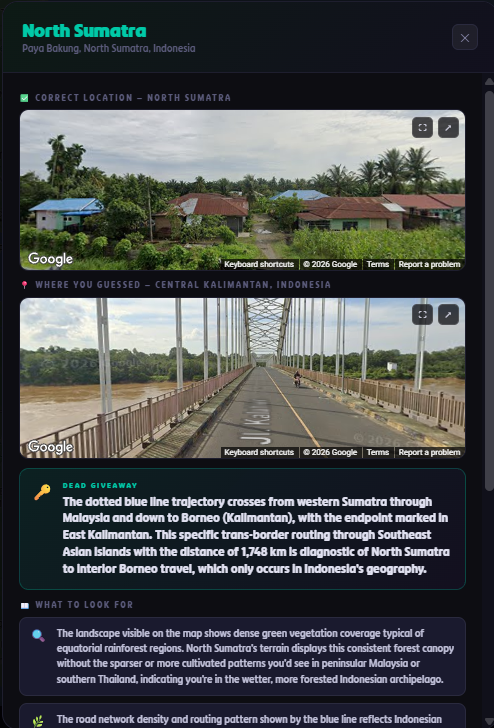
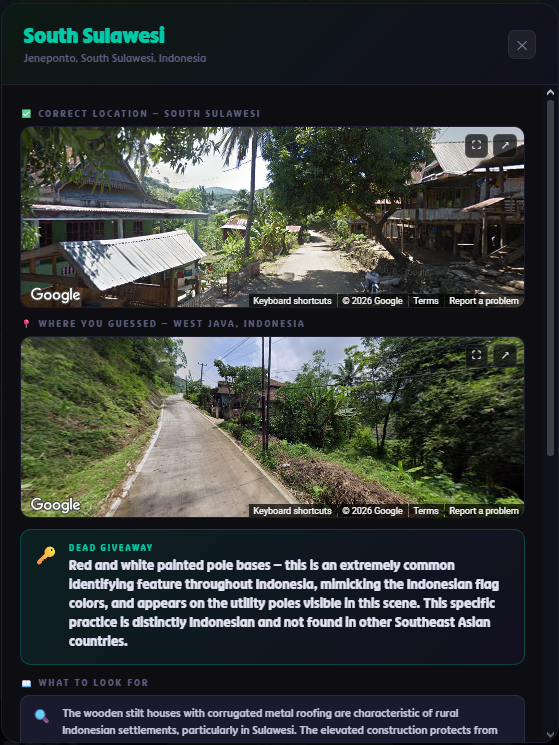
Add files via upload

diff --git a/index.html b/index.html
@@ -1000,7 +1000,7 @@ if (sessionStorage.getItem('kbl_unlocked') === '1') {
           <tr style="border-bottom:1px solid #1e1e35;">
             <td style="padding:12px 16px;">F7 Scene Captures</td>
             <td style="text-align:center;padding:12px 16px;color:var(--teal);font-weight:700;">Unlimited</td>
-            <td style="text-align:center;padding:12px 16px;color:var(--teal);font-weight:700;">Unlimited</td>
+            <td style="text-align:center;padding:12px 16px;color:var(--gold);font-weight:700;">Unlimited</td>
           </tr>
           <tr style="border-bottom:1px solid #1e1e35;background:rgba(255,255,255,0.02);">
             <td style="padding:12px 16px;">Training Guides</td>
@@ -1186,10 +1186,12 @@ if (sessionStorage.getItem('kbl_unlocked') === '1') {
 </div>
 <div id="dashboard" style="min-height:80vh;">
   <div style="padding:40px;max-width:900px;margin:0 auto;position:relative;z-index:1;">
-    <div id="dash-seasonal-banner" style="display:none;text-align:center;font-size:12px;font-weight:700;letter-spacing:1px;padding:8px 16px;border-radius:8px;margin-bottom:16px;"></div>
     <div class="dash-header">
       <div>
-        <div class="dash-welcome">Welcome back, <span id="dash-username">Player</span> 👋</div>
+        <div class="dash-welcome" style="display:flex;align-items:center;gap:10px;flex-wrap:wrap;">
+          <span>Welcome back, <span id="dash-username">Player</span> 👋</span>
+          <span id="dash-level-badge" style="font-size:12px;font-weight:700;padding:3px 10px;border-radius:20px;background:rgba(0,201,167,0.15);border:1px solid var(--teal);color:var(--teal);">Lv.1</span>
+        </div>
         <div style="color:var(--muted);font-size:14px;margin-top:4px;" id="dash-email"></div>
       </div>
       <div style="display:flex;align-items:center;gap:12px;">
@@ -1214,13 +1216,10 @@ if (sessionStorage.getItem('kbl_unlocked') === '1') {
       </div>
     </div>
 
-    <!-- GeoX mascot -->
-    <div id="dash-mascot-wrap" style="display:flex;align-items:flex-start;gap:12px;margin-bottom:16px;">
-      <div style="width:38px;height:38px;border-radius:50%;background:linear-gradient(135deg,var(--teal),var(--purple));display:flex;align-items:center;justify-content:center;font-weight:800;font-size:13px;flex-shrink:0;color:#000;">5k</div>
-      <div style="background:var(--card);border:1px solid var(--border);border-radius:14px;border-top-left-radius:2px;padding:12px 16px;font-size:13px;flex:1;">
-        <span style="font-weight:700;color:var(--teal);">GeoX</span>
-        <div id="dash-mascot-message" style="color:var(--text);margin-top:2px;">Loading your stats...</div>
-      </div>
+    <!-- Level rewards roadmap -->
+    <div style="background:var(--card);border:1px solid var(--border);border-radius:14px;padding:20px 24px;margin-bottom:16px;">
+      <div style="font-weight:700;font-size:13px;margin-bottom:14px;">🎖 Rank Rewards</div>
+      <div id="dash-rewards-roadmap" style="display:flex;flex-direction:column;gap:2px;"></div>
     </div>
 
     <div class="dash-cards">
@@ -2305,14 +2304,13 @@ function showDashboard(user, token) {
   loadGuessInsights(token);
   loadDashboardUsage(token);
   loadDashboardExtras(token);
-  applySeasonalBanner();
 }
 
 // ── Level / XP + GeoX mascot + seasonal banner ──────────────────
 function _gaxLevelInfo(xp) {
   // Quadratic curve: level n's cumulative threshold is 50*n^2, so each
   // level takes progressively more XP than the last (RPG-style pacing)
-  // — 50 XP for level 2, 200 cumulative for level 3, 450 for level 4...
+  // \u2014 50 XP for level 2, 200 cumulative for level 3, 450 for level 4...
   let level = 1;
   while (50 * level * level <= xp) level++;
   const xpForCurrentLevel = 50 * (level - 1) * (level - 1);
@@ -2323,16 +2321,47 @@ function _gaxLevelInfo(xp) {
   return { level, xpIntoLevel, xpNeededForLevel, pct };
 }
 
-function _gaxLevelTitle(level) {
-  if (level >= 25) return 'Legend';
-  if (level >= 20) return 'Master Geographer';
-  if (level >= 16) return 'Geo Master';
-  if (level >= 12) return 'Globetrotter';
-  if (level >= 8)  return 'Cartographer';
-  if (level >= 5)  return 'Scout';
-  if (level >= 3)  return 'Navigator';
-  if (level >= 2)  return 'Explorer';
-  return 'Rookie';
+// Rank tiers \u2014 each is both a title AND a real visual reward (ring
+// color, badge color). Climbing tiers changes your rank ring/badge
+// color everywhere it's shown, so leveling up has a visible payoff
+// beyond just a number going up.
+const _gaxLevelTiers = [
+  { level: 1,  title: 'Rookie',            color: '#8888aa' },
+  { level: 2,  title: 'Explorer',          color: '#00c9a7' },
+  { level: 3,  title: 'Navigator',         color: '#00c9a7' },
+  { level: 5,  title: 'Scout',             color: '#5eb3ff' },
+  { level: 8,  title: 'Cartographer',      color: '#5eb3ff' },
+  { level: 12, title: 'Globetrotter',      color: '#f0a500' },
+  { level: 16, title: 'Geo Master',        color: '#f0a500' },
+  { level: 20, title: 'Master Geographer', color: '#b388ff' },
+  { level: 25, title: 'Legend',            color: 'linear-gradient(90deg,#00c9a7,#b388ff,#f0a500)' },
+];
+
+function _gaxTierForLevel(level) {
+  let tier = _gaxLevelTiers[0];
+  for (const t of _gaxLevelTiers) { if (level >= t.level) tier = t; }
+  return tier;
+}
+
+function renderRewardsRoadmap(level) {
+  const el = document.getElementById('dash-rewards-roadmap');
+  if (!el) return;
+  const currentTier = _gaxTierForLevel(level);
+  el.innerHTML = _gaxLevelTiers.map(t => {
+    const unlocked = level >= t.level;
+    const isCurrent = currentTier.level === t.level;
+    const swatch = unlocked
+      ? `background:${t.color};`
+      : `background:var(--bg2);`;
+    return `<div style="display:flex;align-items:center;gap:12px;padding:8px 6px;border-radius:8px;${isCurrent ? 'background:rgba(0,201,167,0.08);' : ''}">
+      <div style="width:24px;height:24px;border-radius:50%;flex-shrink:0;display:flex;align-items:center;justify-content:center;font-size:11px;${swatch}color:${unlocked ? '#000' : 'var(--muted)'};">${unlocked ? '\u2713' : '\ud83d\udd12'}</div>
+      <div style="flex:1;min-width:0;">
+        <div style="font-size:12px;font-weight:700;color:${unlocked ? 'var(--text)' : 'var(--muted)'};">${t.title}</div>
+        <div style="font-size:11px;color:var(--muted);">Level ${t.level}${unlocked ? ' \u2014 Unlocked' : ' required'}</div>
+      </div>
+      ${isCurrent ? '<span style="font-size:10px;font-weight:700;color:var(--teal);background:rgba(0,201,167,0.12);padding:2px 8px;border-radius:10px;flex-shrink:0;">CURRENT</span>' : ''}
+    </div>`;
+  }).join('');
 }
 
 async function loadDashboardExtras(token){
@@ -2341,78 +2370,36 @@ async function loadDashboardExtras(token){
   const titleEl = document.getElementById('dash-level-title');
   const xpTextEl = document.getElementById('dash-level-xp-text');
   const fillEl = document.getElementById('dash-level-fill');
-  const mascotEl = document.getElementById('dash-mascot-message');
+  const badgeEl = document.getElementById('dash-level-badge');
 
   try {
-    const [statsRes, fullStatsRes] = await Promise.all([
-      fetch(API + '/guess/stats', { method:'POST', headers:{'Content-Type':'application/json'}, body: JSON.stringify({token}) }),
-      fetch(API + '/guess/full_stats', { method:'POST', headers:{'Content-Type':'application/json'}, body: JSON.stringify({token}) }),
-    ]);
+    const statsRes = await fetch(API + '/guess/stats', { method:'POST', headers:{'Content-Type':'application/json'}, body: JSON.stringify({token}) });
     const statsData = await statsRes.json();
-    const fullStats = await fullStatsRes.json();
 
     // Total correct guesses across every country = XP. Grows every
     // single round played, so it's always a positive, motivating number
     // even on an off day.
     const totalXP = (statsData.stats || []).reduce((sum, s) => sum + (s.correct || 0), 0);
     const { level, xpIntoLevel, xpNeededForLevel, pct } = _gaxLevelInfo(totalXP);
-    const title = _gaxLevelTitle(level);
+    const tier = _gaxTierForLevel(level);
 
     if (numEl) numEl.textContent = level;
-    if (titleEl) titleEl.textContent = `Level ${level} — ${title}`;
+    if (titleEl) titleEl.textContent = `Level ${level} \u2014 ${tier.title}`;
     if (xpTextEl) xpTextEl.textContent = `${xpIntoLevel.toLocaleString()} / ${xpNeededForLevel.toLocaleString()} XP`;
-    if (fillEl) fillEl.style.width = pct + '%';
-    if (ring) ring.style.background = `conic-gradient(var(--teal) ${pct}%, var(--border) ${pct}%)`;
-
-    // GeoX mascot reaction — picks the single most relevant/motivating
-    // thing to say based on real stats, prioritized roughly by how
-    // actionable/exciting it is.
-    const overview = fullStats.overview || {};
-    const streak = overview.current_streak || 0;
-    let message;
-    if (overview.total_games === 0 || !overview.total_games) {
-      message = "Ready when you are! Fire up GeoGuessr with the extension active and I'll start tracking your progress right here. 🧭";
-    } else if (streak >= 10) {
-      message = `🔥🔥 ${streak}-round correct streak?! You're unstoppable right now.`;
-    } else if (streak >= 3) {
-      message = `🔥 ${streak} correct in a row — you're on fire, keep it going!`;
-    } else {
-      const best = fullStats.best_region;
-      const worst = fullStats.worst_region;
-      if (best && best.pct >= 90) {
-        message = `You're crushing ${escapeHtmlLocal(best.region)} at ${best.pct}%! 🏆`;
-      } else if (worst && worst.total >= 3 && worst.pct < 50) {
-        message = `${escapeHtmlLocal(worst.region)} is sitting at ${worst.pct}% — want to knock out a few rounds there?`;
-      } else {
-        message = `${overview.total_games.toLocaleString()} rounds played so far — nice work. Keep building that streak!`;
-      }
+    if (fillEl) { fillEl.style.width = pct + '%'; fillEl.style.background = tier.color; }
+    if (ring) ring.style.background = `conic-gradient(${tier.color} ${pct}%, var(--border) ${pct}%)`;
+    if (badgeEl) {
+      badgeEl.textContent = `Lv.${level}`;
+      badgeEl.style.color = tier.color.startsWith('linear-gradient') ? '#fff' : tier.color;
+      badgeEl.style.borderColor = tier.color.startsWith('linear-gradient') ? '#b388ff' : tier.color;
+      badgeEl.style.background = tier.color.startsWith('linear-gradient') ? tier.color : `${tier.color}26`;
     }
-    if (mascotEl) mascotEl.textContent = message;
+    renderRewardsRoadmap(level);
   } catch(e) {
-    if (mascotEl) mascotEl.textContent = "Couldn't load your stats right now — try refreshing.";
+    if (titleEl) titleEl.textContent = "Couldn't load level right now";
   }
 }
 
-function applySeasonalBanner() {
-  const banner = document.getElementById('dash-seasonal-banner');
-  if (!banner) return;
-  const month = new Date().getMonth(); // 0=Jan .. 11=Dec
-  let theme;
-  if ([11,0,1].includes(month)) {
-    theme = { emoji: '❄', text: 'Winter Training Season', bg: 'rgba(94,179,255,0.10)', border: 'rgba(94,179,255,0.3)', color: '#8ecbff' };
-  } else if ([2,3,4].includes(month)) {
-    theme = { emoji: '🌸', text: 'Spring Training Season', bg: 'rgba(255,138,222,0.10)', border: 'rgba(255,138,222,0.3)', color: '#ff9ee0' };
-  } else if ([5,6,7].includes(month)) {
-    theme = { emoji: '☀', text: 'Summer Training Season', bg: 'rgba(255,193,7,0.10)', border: 'rgba(255,193,7,0.3)', color: '#ffd54f' };
-  } else {
-    theme = { emoji: '🍂', text: 'Autumn Training Season', bg: 'rgba(255,112,67,0.10)', border: 'rgba(255,112,67,0.3)', color: '#ff8a65' };
-  }
-  banner.textContent = `${theme.emoji}  ${theme.text}  ${theme.emoji}`;
-  banner.style.background = theme.bg;
-  banner.style.border = `1px solid ${theme.border}`;
-  banner.style.color = theme.color;
-  banner.style.display = 'block';
-}
 
 function escapeHtmlLocal(s){
   return (s || '').replace(/[&<>"']/g, c => ({'&':'&amp;','<':'&lt;','>':'&gt;','"':'&quot;',"'":'&#39;'}[c]));
